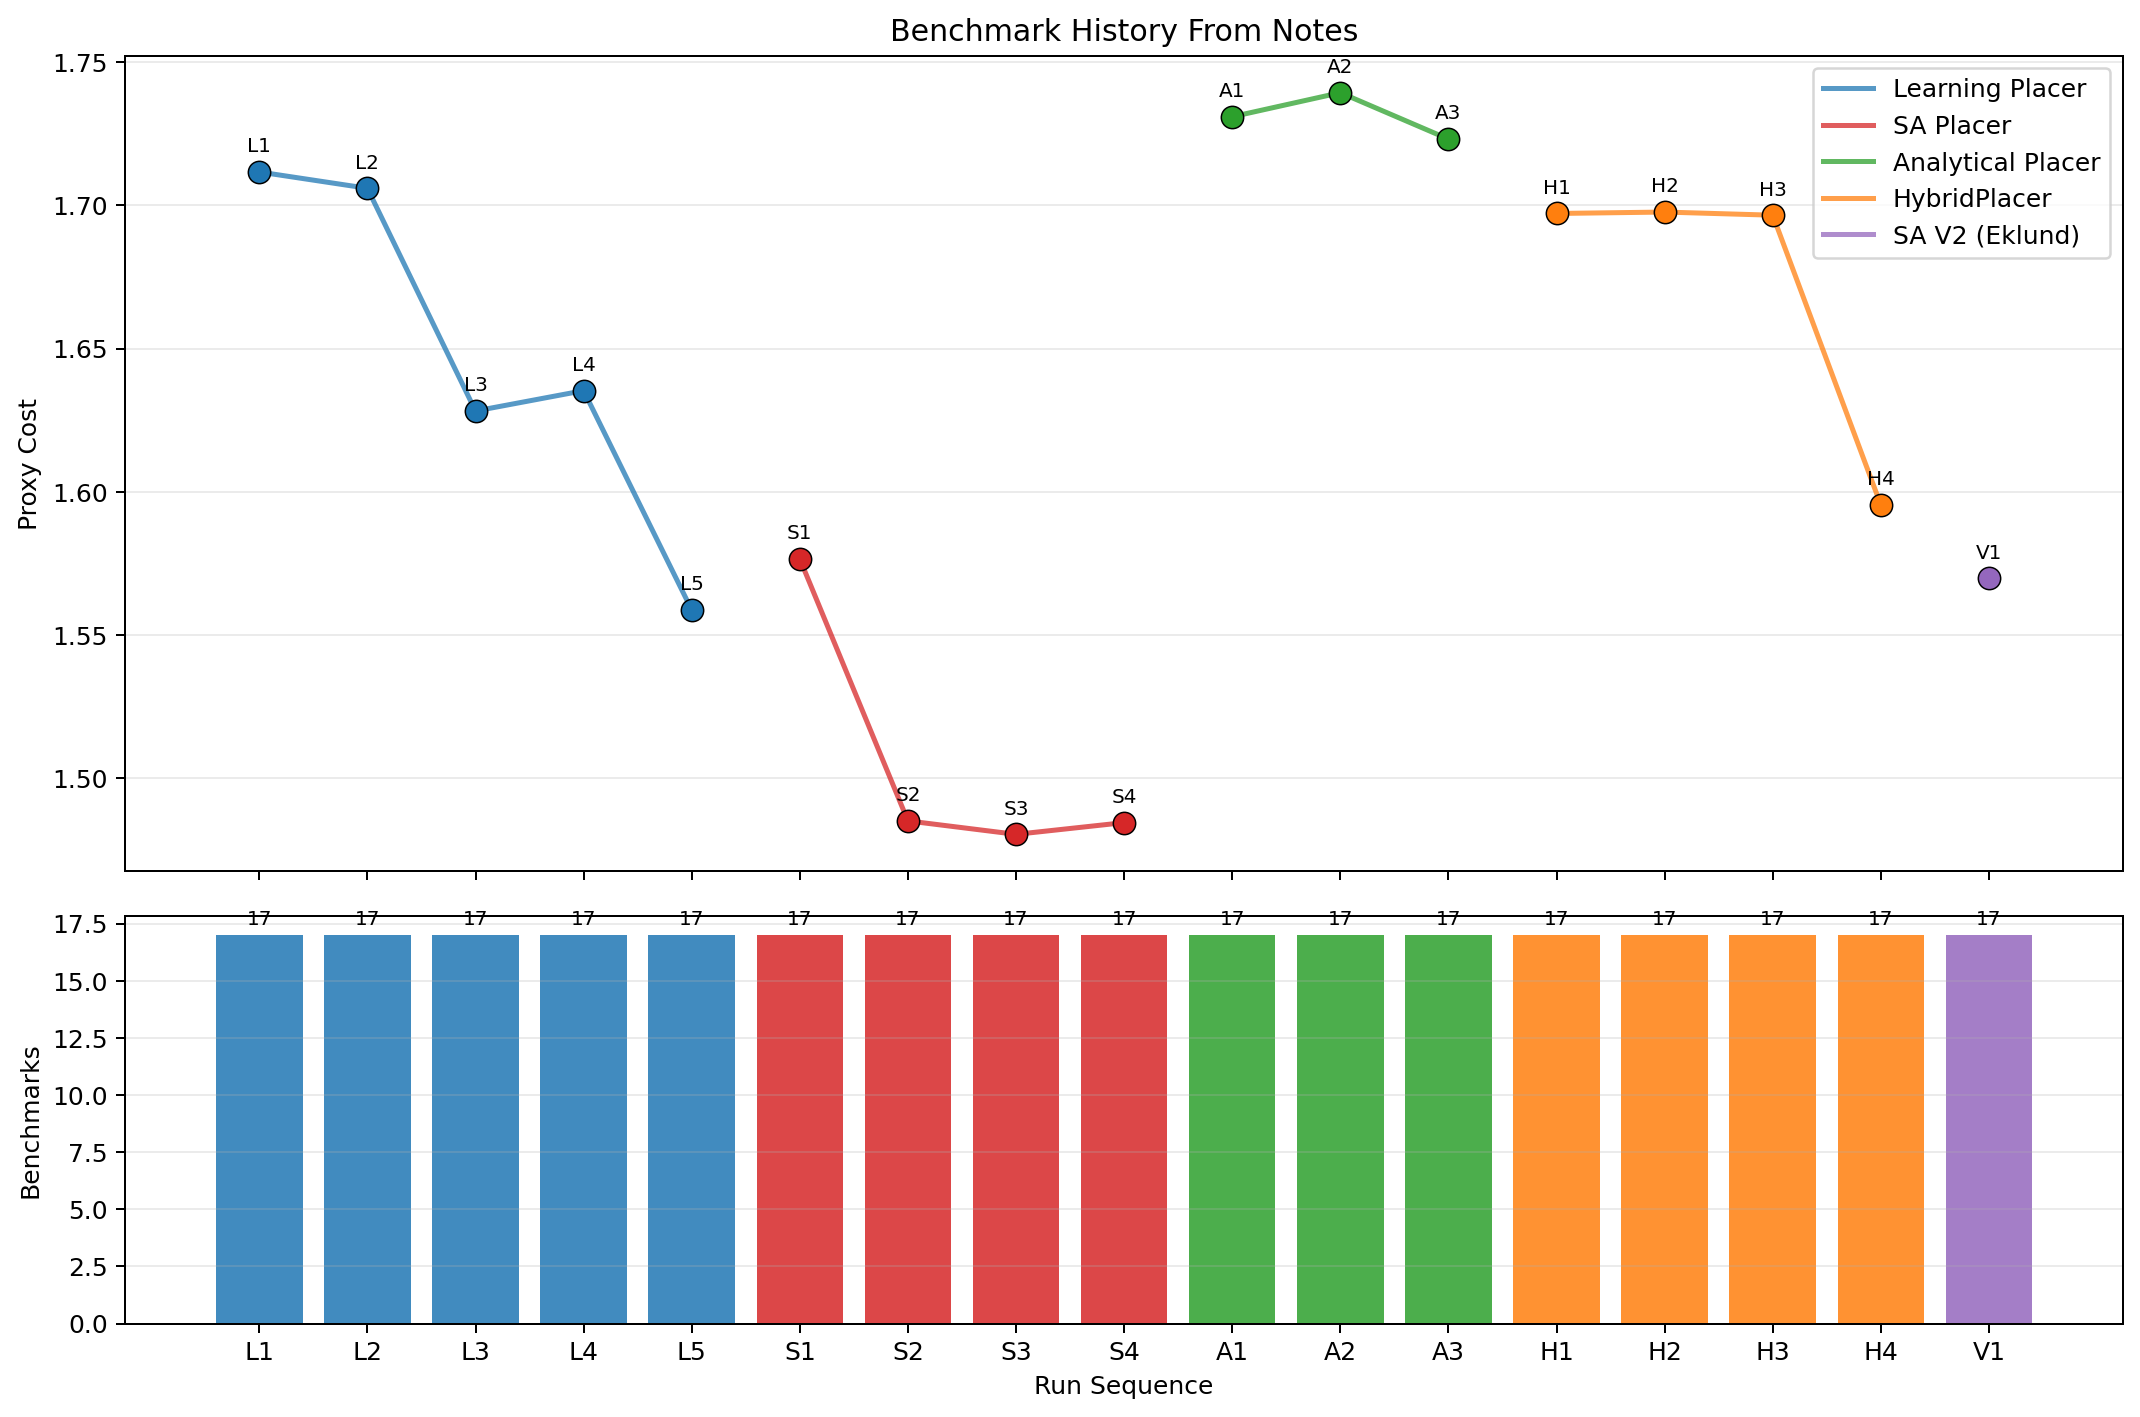
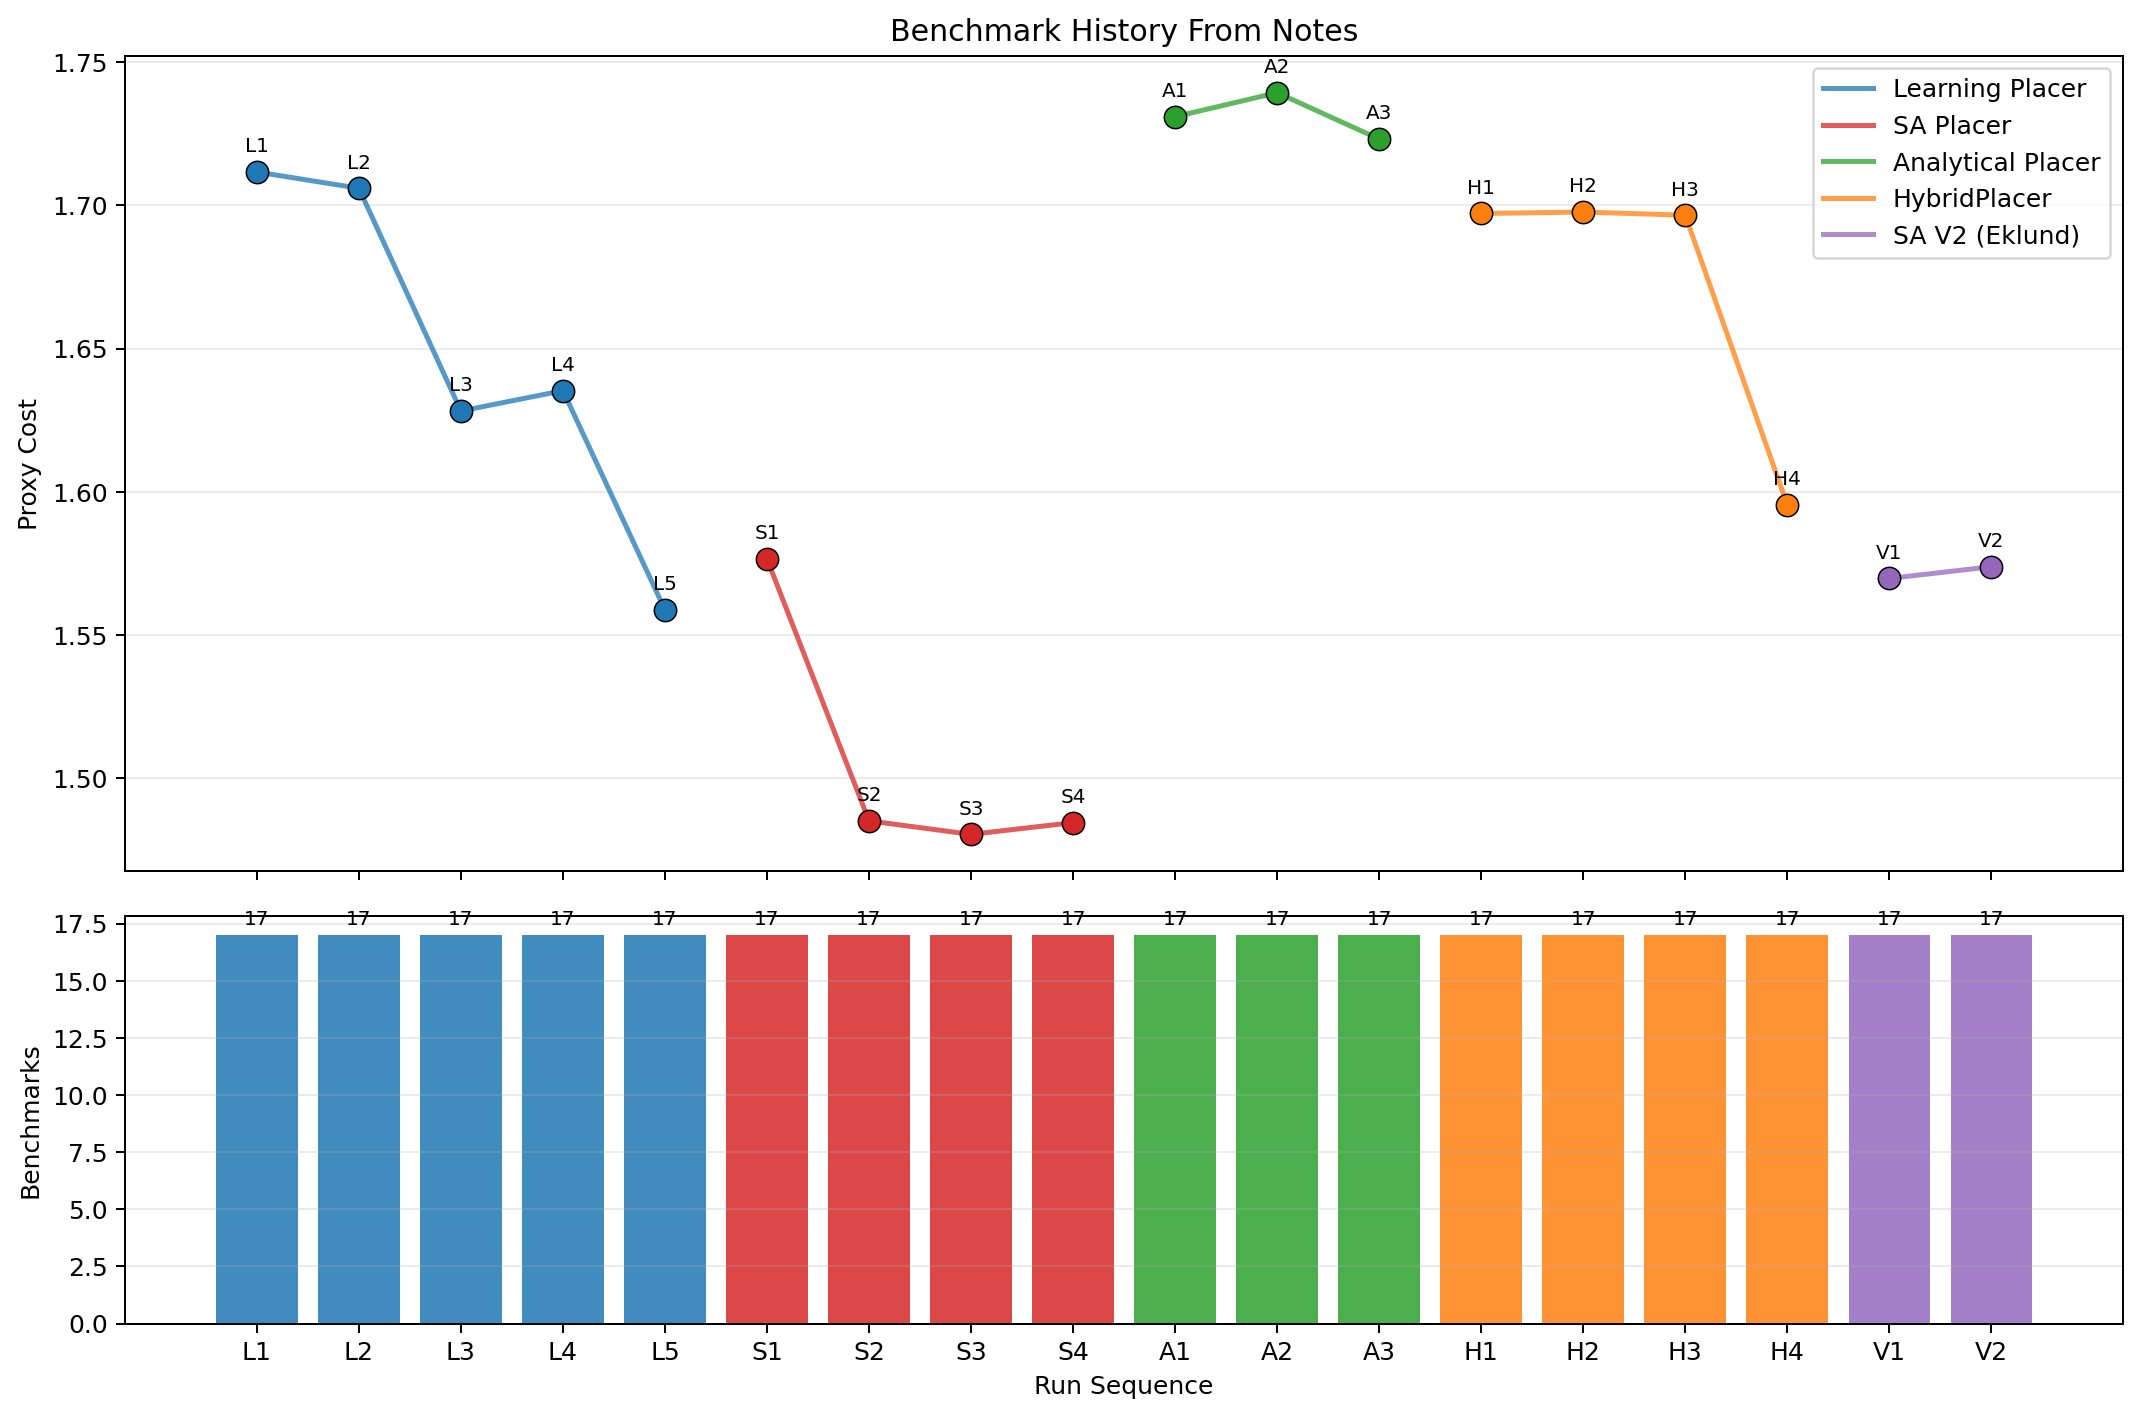
SA V2 results

diff --git a/notes/benchmark history/generate_benchmark_history.py b/notes/benchmark history/generate_benchmark_history.py
@@ -55,7 +55,7 @@ def _safe_float(s: str) -> float | None:
 def parse_learning() -> tuple[list[RunRecord], list[dict[str, object]]]:
     path = NOTES_ROOT / "(RL method)eklundnotes.md"
     text = path.read_text()
-    blocks = re.split(r"(?=^## )", text, flags=re.M)
+    blocks = re.split(r"(?=^## (?!#))", text, flags=re.M)
 
     runs: list[RunRecord] = []
     rows: list[dict[str, object]] = []
@@ -499,7 +499,7 @@ def parse_sa_v2() -> tuple[list[RunRecord], list[dict[str, object]]]:
     if not path.exists():
         return [], []
     text = path.read_text()
-    blocks = re.split(r"(?=^## )", text, flags=re.M)
+    blocks = re.split(r"(?=^## (?!#))", text, flags=re.M)
 
     runs: list[RunRecord] = []
     rows: list[dict[str, object]] = []

diff --git a/notes/benchmark history/benchmark_history_raw.md b/notes/benchmark history/benchmark_history_raw.md
@@ -6,11 +6,11 @@ Generated from the note files in this directory.
 
 | Run ID | Method | Date | Title | Scope | Benchmarks Logged | Plotted Proxy | Full-Suite Avg Proxy | Total Runtime (s) | Source |
 |--------|--------|------|-------|-------|-------------------|---------------|----------------------|-------------------|--------|
-| L1 | Learning Placer | - | 2026-04-03 — Stronger density + congestion proxy + target_util=0.6 | full_suite | 17 | 1.7117 | 1.7117 | 170.83 | (RL method)eklundnotes.md |
-| L2 | Learning Placer | - | 2026-04-04 — Full suite rerun (`--no-media`) | full_suite | 17 | 1.7060 | 1.7060 | 457.74 | (RL method)eklundnotes.md |
-| L3 | Learning Placer | - | 2026-04-04 — v2: Pre-trained GNN + Density-aware SA + Greedy Flipping | full_suite | 17 | 1.6282 | 1.6282 | 84.55 | (RL method)eklundnotes.md |
-| L4 | Learning Placer | - | 2026-04-05 — v3: Research-paper-informed pretraining improvements | full_suite | 17 | 1.6353 | 1.6353 | 2275.30 | (RL method)eklundnotes.md |
-| L5 | Learning Placer | - | 2026-04-06 — v4: Congestion-focused overhaul + compute increase | full_suite | 17 | 1.5587 | 1.5587 | 16101.80 | (RL method)eklundnotes.md |
+| L1 | Learning Placer | 2026-04-03 | Stronger density + congestion proxy + target_util=0.6 | full_suite | 17 | 1.7117 | 1.7117 | 170.83 | (RL method)eklundnotes.md |
+| L2 | Learning Placer | 2026-04-04 | Full suite rerun (`--no-media`) | full_suite | 17 | 1.7060 | 1.7060 | 457.74 | (RL method)eklundnotes.md |
+| L3 | Learning Placer | 2026-04-04 | v2: Pre-trained GNN + Density-aware SA + Greedy Flipping | full_suite | 17 | 1.6282 | 1.6282 | 84.55 | (RL method)eklundnotes.md |
+| L4 | Learning Placer | 2026-04-05 | v3: Research-paper-informed pretraining improvements | full_suite | 17 | 1.6353 | 1.6353 | 2275.30 | (RL method)eklundnotes.md |
+| L5 | Learning Placer | 2026-04-06 | v4: Congestion-focused overhaul + compute increase | full_suite | 17 | 1.5587 | 1.5587 | 16101.80 | (RL method)eklundnotes.md |
 | S1 | SA Placer | 2026-04-03 | SA Placer (PLACER_METHOD=sa) | full_suite | 17 | 1.5765 | 1.5765 | 215.00 | (SA + Analytical method) Omnellnotes.md |
 | S2 | SA Placer | 2026-04-04 | SA Placer (PLACER_METHOD=sa) | full_suite | 17 | 1.4850 | 1.4850 | 999.38 | (SA + Analytical method) Omnellnotes.md |
 | S3 | SA Placer | 2026-04-04, v2 | SA Placer (PLACER_METHOD=sa) | full_suite | 17 | 1.4803 | 1.4803 | 676.83 | (SA + Analytical method) Omnellnotes.md |
@@ -22,7 +22,8 @@ Generated from the note files in this directory.
 | H2 | HybridPlacer | 2026-04-04, --no-media | Analytical -> SA pipeline benchmark run | full_suite | 17 | 1.6977 | 1.6977 | 324.72 | (Hybrid method)novaknotes.md |
 | H3 | HybridPlacer | 2026-04-06 | Analytical -> SA pipeline benchmark run | full_suite | 17 | 1.6966 | 1.6966 | 3998.65 | (Hybrid method)novaknotes.md |
 | H4 | HybridPlacer | 2026-04-07, v4 --no-media | Analytical -> SA pipeline benchmark run | full_suite | 17 | 1.5954 | 1.5954 | 12369.19 | (Hybrid method)novaknotes.md |
-| V1 | SA V2 (Eklund) | - | 2026-04-06 — SA V2: GPU-assisted post-refinement with CPU fallback | full_suite | 17 | 1.5697 | 1.5697 | 3478.35 | (RL method)eklundnotes.md |
+| V1 | SA V2 (Eklund) | 2026-04-06 | SA V2: GPU-assisted post-refinement with CPU fallback | full_suite | 17 | 1.5697 | 1.5697 | 3478.35 | (RL method)eklundnotes.md |
+| V2 | SA V2 (Eklund) | 2026-04-07 | SA V2: fast full-suite rerun (`--no-media`) | full_suite | 17 | 1.5738 | 1.5738 | 668.95 | (RL method)eklundnotes.md |
 
 ## Benchmark-Level Records
 
@@ -317,3 +318,20 @@ Generated from the note files in this directory.
 | V1 | SA V2 (Eklund) | ibm16 | 1.6145 | 0.050 | 0.910 | 2.218 | 407.15 | (RL method)eklundnotes.md |
 | V1 | SA V2 (Eklund) | ibm17 | 1.7702 | 0.054 | 0.967 | 2.465 | 712.17 | (RL method)eklundnotes.md |
 | V1 | SA V2 (Eklund) | ibm18 | 1.8050 | 0.053 | 1.058 | 2.446 | 181.13 | (RL method)eklundnotes.md |
+| V2 | SA V2 (Eklund) | ibm01 | 1.2515 | 0.088 | 0.934 | 1.393 | 23.43 | (RL method)eklundnotes.md |
+| V2 | SA V2 (Eklund) | ibm02 | 1.6672 | 0.086 | 0.768 | 2.395 | 14.96 | (RL method)eklundnotes.md |
+| V2 | SA V2 (Eklund) | ibm03 | 1.5042 | 0.087 | 0.834 | 2.000 | 15.90 | (RL method)eklundnotes.md |
+| V2 | SA V2 (Eklund) | ibm04 | 1.5122 | 0.078 | 0.882 | 1.987 | 97.32 | (RL method)eklundnotes.md |
+| V2 | SA V2 (Eklund) | ibm06 | 1.7702 | 0.066 | 0.803 | 2.607 | 15.51 | (RL method)eklundnotes.md |
+| V2 | SA V2 (Eklund) | ibm07 | 1.5731 | 0.068 | 0.892 | 2.119 | 21.37 | (RL method)eklundnotes.md |
+| V2 | SA V2 (Eklund) | ibm08 | 1.6782 | 0.076 | 0.922 | 2.282 | 31.19 | (RL method)eklundnotes.md |
+| V2 | SA V2 (Eklund) | ibm09 | 1.2071 | 0.061 | 0.902 | 1.390 | 22.93 | (RL method)eklundnotes.md |
+| V2 | SA V2 (Eklund) | ibm10 | 1.5059 | 0.076 | 0.740 | 2.120 | 48.62 | (RL method)eklundnotes.md |
+| V2 | SA V2 (Eklund) | ibm11 | 1.3292 | 0.058 | 0.916 | 1.627 | 28.50 | (RL method)eklundnotes.md |
+| V2 | SA V2 (Eklund) | ibm12 | 1.7301 | 0.066 | 0.804 | 2.525 | 45.90 | (RL method)eklundnotes.md |
+| V2 | SA V2 (Eklund) | ibm13 | 1.5038 | 0.057 | 0.946 | 1.948 | 28.28 | (RL method)eklundnotes.md |
+| V2 | SA V2 (Eklund) | ibm14 | 1.6763 | 0.054 | 1.004 | 2.240 | 57.27 | (RL method)eklundnotes.md |
+| V2 | SA V2 (Eklund) | ibm15 | 1.6607 | 0.059 | 0.998 | 2.205 | 46.20 | (RL method)eklundnotes.md |
+| V2 | SA V2 (Eklund) | ibm16 | 1.6149 | 0.051 | 0.897 | 2.231 | 58.27 | (RL method)eklundnotes.md |
+| V2 | SA V2 (Eklund) | ibm17 | 1.7691 | 0.054 | 0.969 | 2.461 | 74.23 | (RL method)eklundnotes.md |
+| V2 | SA V2 (Eklund) | ibm18 | 1.8011 | 0.053 | 1.055 | 2.440 | 39.07 | (RL method)eklundnotes.md |

diff --git a/notes/(RL method)eklundnotes.md b/notes/(RL method)eklundnotes.md
@@ -205,3 +205,33 @@ Method: `PLACER_METHOD=sa_v2` — SA V2 with HPWL caching, adaptive moves, LAHC,
 Beat SA baseline on 16/17. Beat RePlAce on 1/17 (ibm02).
 **Result:** Much better than the SA baseline, but still behind our best logged SA V1 run (1.4803) and the current learning placer (1.5587).
 The GPU-assisted fallback path is integrated and validated, but this first SA V2 full-suite run is still congestion-limited on ibm04/ibm10/ibm17.
+
+## 2026-04-07 — SA V2: fast full-suite rerun (`--no-media`)
+
+Method: `PLACER_METHOD=sa_v2` — SA V2 with HPWL caching, adaptive moves, LAHC, greedy local search, and GPU-assisted post-refinement
+
+### Full suite run (this config):
+| Benchmark | Proxy | WL | Density | Congestion | Time | vs SA baseline |
+|-----------|-------|-----|---------|------------|------|----------------|
+| ibm01 | 1.2515 | 0.088 | 0.934 | 1.393 | 23.43s | BETTER (1.3166) |
+| ibm02 | 1.6672 | 0.086 | 0.768 | 2.395 | 14.96s | BETTER (1.9072) |
+| ibm03 | 1.5042 | 0.087 | 0.834 | 2.000 | 15.90s | BETTER (1.7401) |
+| ibm04 | 1.5122 | 0.078 | 0.882 | 1.987 | 97.32s | WORSE (1.5037) |
+| ibm06 | 1.7702 | 0.066 | 0.803 | 2.607 | 15.51s | BETTER (2.5057) |
+| ibm07 | 1.5731 | 0.068 | 0.892 | 2.119 | 21.37s | BETTER (2.0229) |
+| ibm08 | 1.6782 | 0.076 | 0.922 | 2.282 | 31.19s | BETTER (1.9239) |
+| ibm09 | 1.2071 | 0.061 | 0.902 | 1.390 | 22.93s | BETTER (1.3875) |
+| ibm10 | 1.5059 | 0.076 | 0.740 | 2.120 | 48.62s | BETTER (2.1108) |
+| ibm11 | 1.3292 | 0.058 | 0.916 | 1.627 | 28.50s | BETTER (1.7111) |
+| ibm12 | 1.7301 | 0.066 | 0.804 | 2.525 | 45.90s | BETTER (2.8261) |
+| ibm13 | 1.5038 | 0.057 | 0.946 | 1.948 | 28.28s | BETTER (1.9141) |
+| ibm14 | 1.6763 | 0.054 | 1.004 | 2.240 | 57.27s | BETTER (2.2750) |
+| ibm15 | 1.6607 | 0.059 | 0.998 | 2.205 | 46.20s | BETTER (2.3000) |
+| ibm16 | 1.6149 | 0.051 | 0.897 | 2.231 | 58.27s | BETTER (2.2337) |
+| ibm17 | 1.7691 | 0.054 | 0.969 | 2.461 | 74.23s | BETTER (3.6726) |
+| ibm18 | 1.8011 | 0.053 | 1.055 | 2.440 | 39.07s | BETTER (2.7755) |
+| **AVG** | **1.5738** | | | | 668.95s | **SA: 2.1251** |
+
+Beat SA baseline on 16/17. Beat RePlAce on 1/17 (ibm02).
+**Result:** Quality is essentially tied with the previous SA V2 full-suite run (1.5697 -> 1.5738, +0.3%), but runtime improved dramatically (3478.35s -> 668.95s, about 5.2x faster).
+This keeps SA V2 clearly ahead of the SA baseline while making it much more practical under the competition runtime limit.

diff --git a/notes/benchmark history/benchmark_history_summary.md b/notes/benchmark history/benchmark_history_summary.md
@@ -11,11 +11,11 @@ This graph summarizes the full-suite benchmark sections logged in the notes.
 
 | Run ID | Method | Date | Scope | Plotted Proxy | Benchmarks Logged |
 |--------|--------|------|-------|---------------|-------------------|
-| L1 | Learning Placer | - | full_suite | 1.7117 | 17 |
-| L2 | Learning Placer | - | full_suite | 1.7060 | 17 |
-| L3 | Learning Placer | - | full_suite | 1.6282 | 17 |
-| L4 | Learning Placer | - | full_suite | 1.6353 | 17 |
-| L5 | Learning Placer | - | full_suite | 1.5587 | 17 |
+| L1 | Learning Placer | 2026-04-03 | full_suite | 1.7117 | 17 |
+| L2 | Learning Placer | 2026-04-04 | full_suite | 1.7060 | 17 |
+| L3 | Learning Placer | 2026-04-04 | full_suite | 1.6282 | 17 |
+| L4 | Learning Placer | 2026-04-05 | full_suite | 1.6353 | 17 |
+| L5 | Learning Placer | 2026-04-06 | full_suite | 1.5587 | 17 |
 | S1 | SA Placer | 2026-04-03 | full_suite | 1.5765 | 17 |
 | S2 | SA Placer | 2026-04-04 | full_suite | 1.4850 | 17 |
 | S3 | SA Placer | 2026-04-04, v2 | full_suite | 1.4803 | 17 |
@@ -27,6 +27,7 @@ This graph summarizes the full-suite benchmark sections logged in the notes.
 | H2 | HybridPlacer | 2026-04-04, --no-media | full_suite | 1.6977 | 17 |
 | H3 | HybridPlacer | 2026-04-06 | full_suite | 1.6966 | 17 |
 | H4 | HybridPlacer | 2026-04-07, v4 --no-media | full_suite | 1.5954 | 17 |
-| V1 | SA V2 (Eklund) | - | full_suite | 1.5697 | 17 |
+| V1 | SA V2 (Eklund) | 2026-04-06 | full_suite | 1.5697 | 17 |
+| V2 | SA V2 (Eklund) | 2026-04-07 | full_suite | 1.5738 | 17 |
 
 Raw parsed data: [benchmark_history_raw.md](benchmark_history_raw.md)

diff --git a/README.md b/README.md
@@ -22,7 +22,7 @@ Submissions are ranked by **average proxy cost** across all 17 IBM benchmarks (l
 | 7 | "CA" (congestion_aware) | 1.5238 | — | — | 0 | 13s/bench |  |
 | 8 | Will Seed (Partcl) | 1.5338 | 1.1625 | 1.7965 | 0 | 35s total | ✅ |
 | 9 | **Learning Placer (ours)** | **1.5587** | **1.1477** | **1.7984** | **0** | **16101.83s total** |  |
-| 10 | **SA V2 (Eklund, ours)** | **1.5697** | **1.2071** | **1.8050** | **0** | **3478.35s total** |  |
+| 10 | **SA V2 (Eklund, ours)** | **1.5738** | **1.2071** | **1.8011** | **0** | **668.95s total** |  |
 | 11 | **HybridPlacer v4 (ours)** | **1.5954** | **1.1387** | **1.9132** | **0** | **12369.19s total** |  |
 | 12 | "UT Austin" - RH (DREAMPlace) | 1.6037 | — | — | 0 | 4.5s/bench |  |
 | 13 | **Analytical Placer (ours)** | **1.7394** | **1.3438** | **2.0684** | **0** | **598.68s total** |  |
